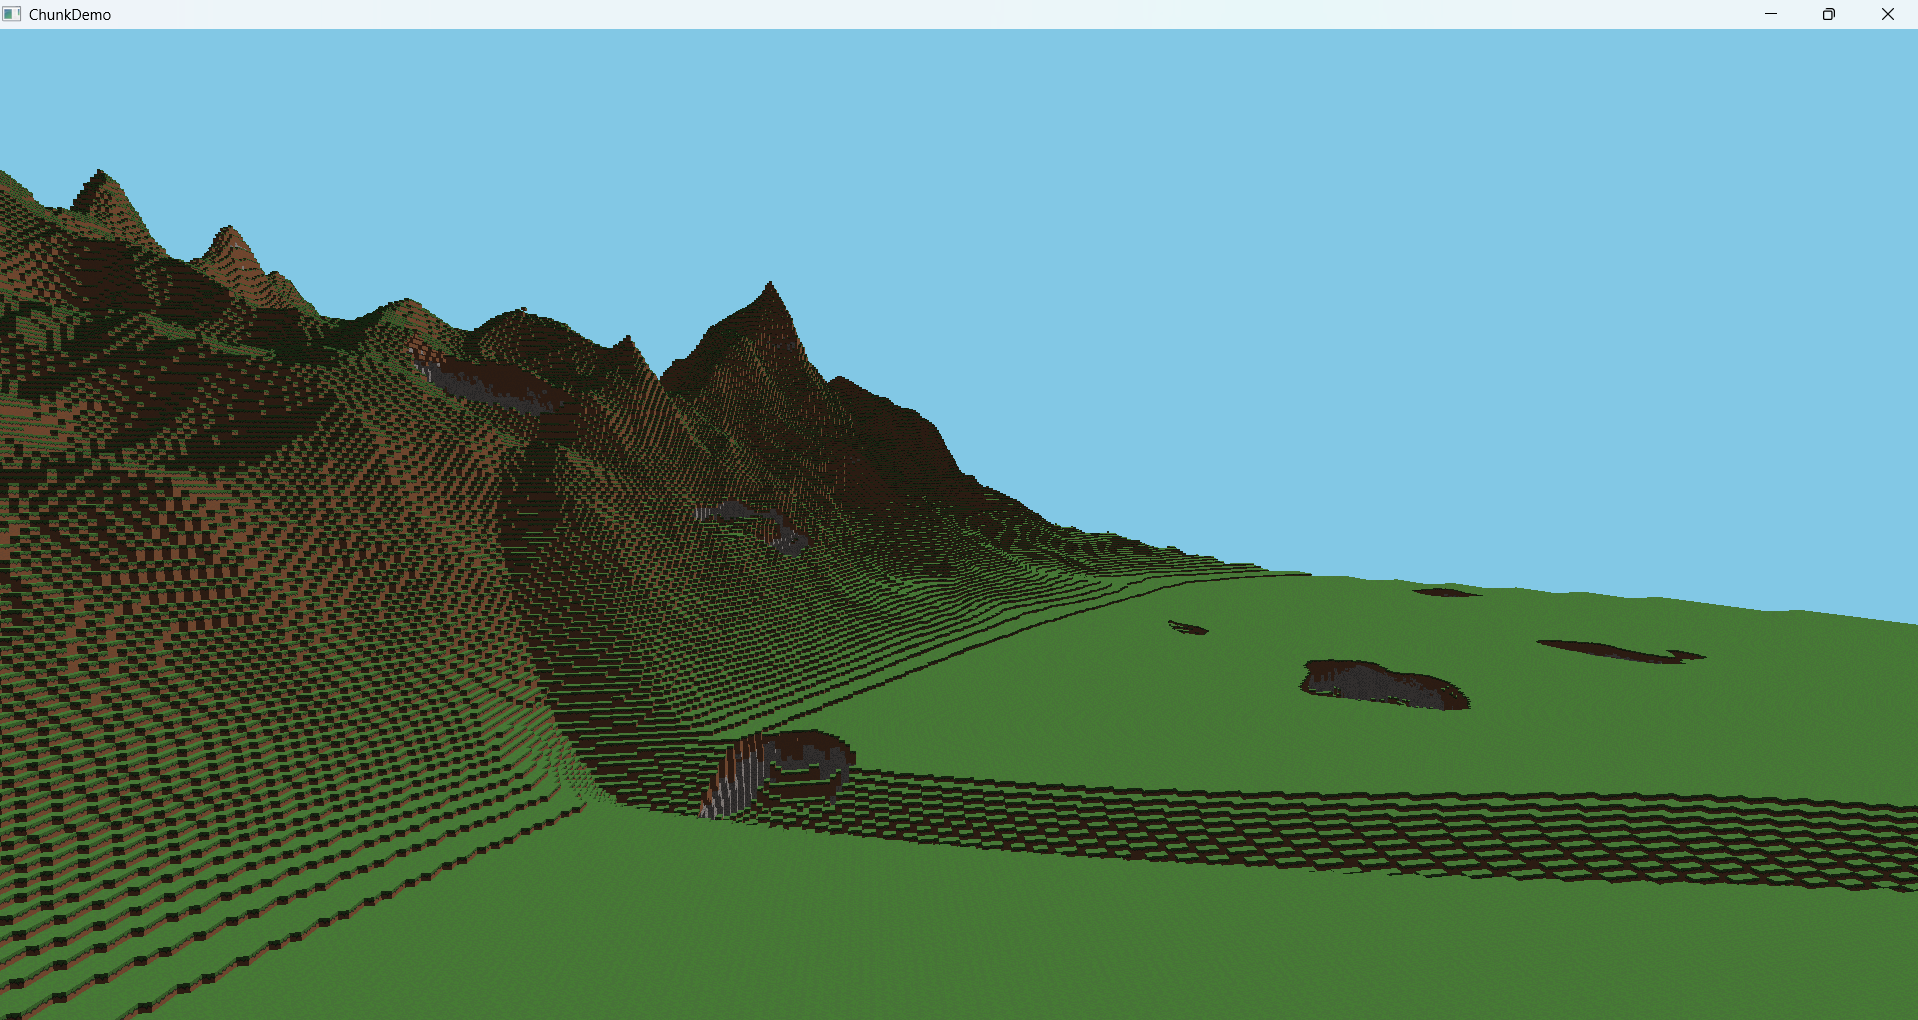
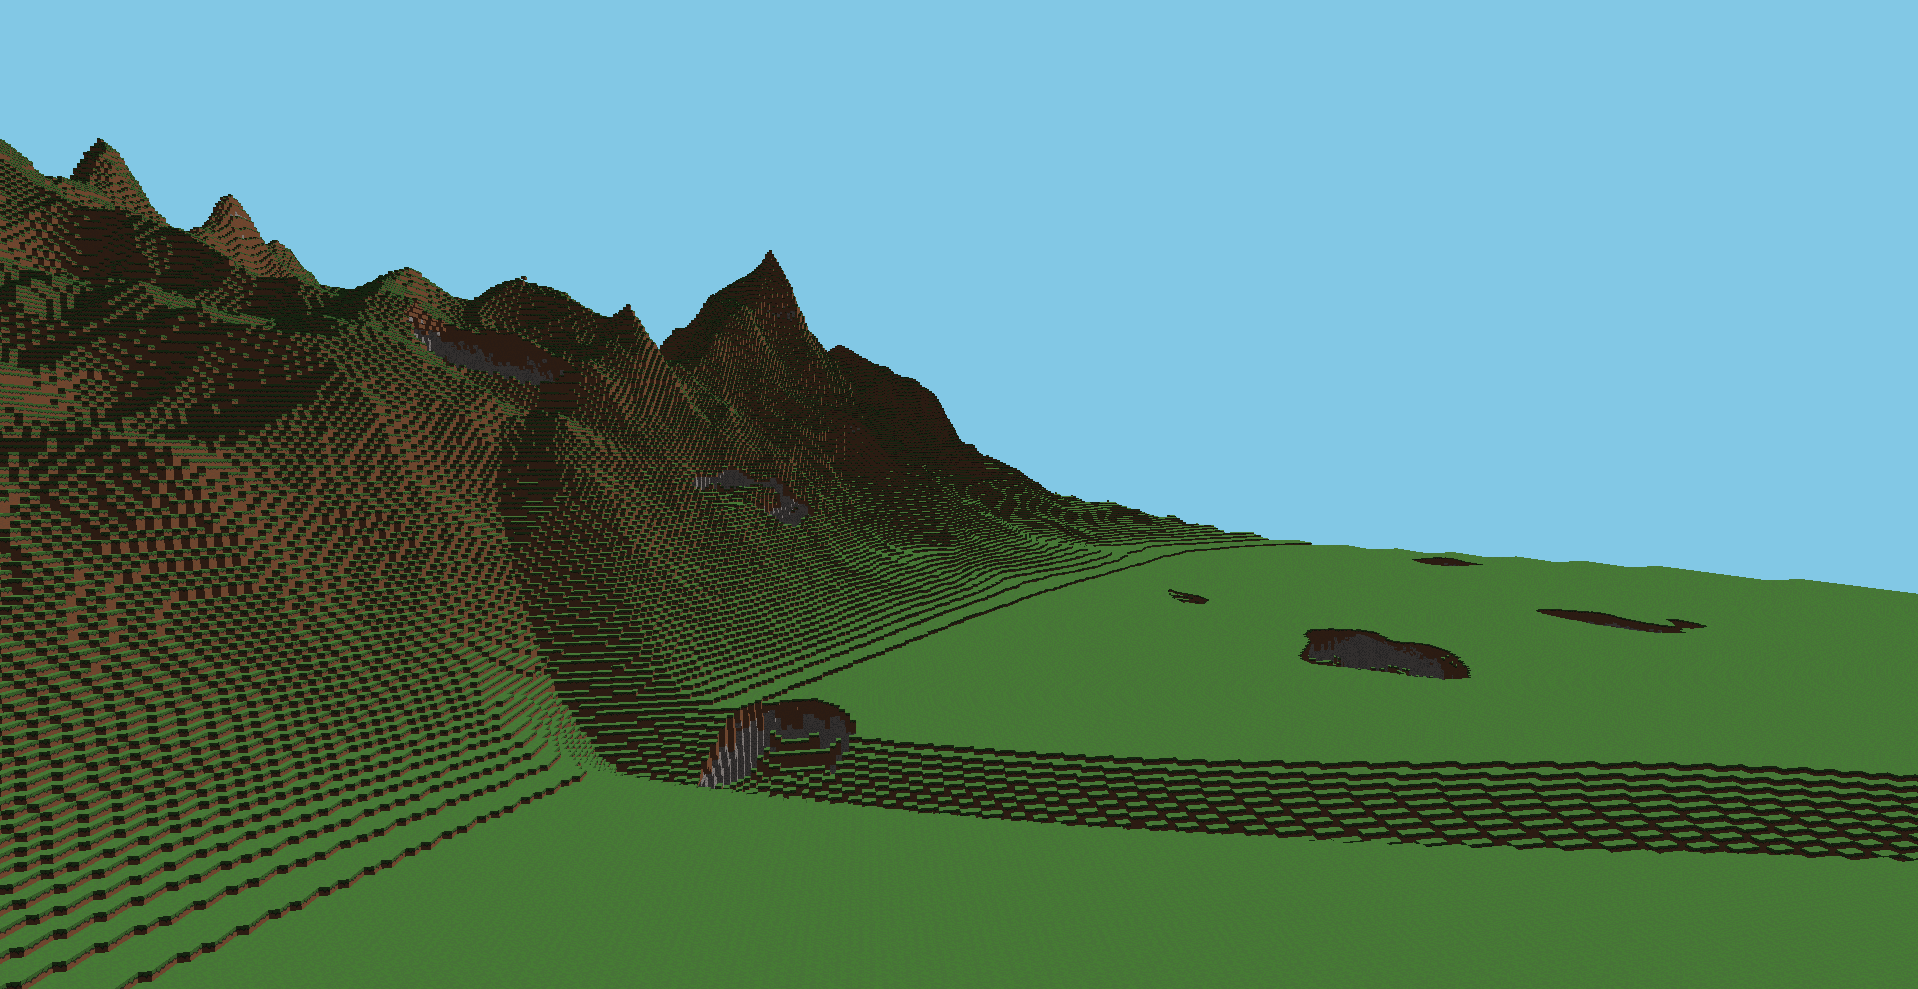
Tidy project READMEs and crop the Minecraft screenshots
Removes the DroneSim stub note, the CloudSim outdated-README note and the
Back To Start Page links; fixes typos in SolarSystem; trims the what-is-C++
bullets in TSBK07. The Windows title bar is cropped out of the Minecraft
Terrain screenshots.

diff --git a/public/projects/SolarSystem/README.md b/public/projects/SolarSystem/README.md
@@ -1,13 +1,13 @@
 # BlenderSolarsystemSim
 A solar system simulation using Euler approximation, animating each planet using keyframes and a custom UI to allow the user to create their own solar systems.
 
-This project was done in 2024 for the course TNM085 - Modelling Project at LIU, made by Jonatan Ebenholm, Berkay Orhan, Ludwig Boge, and Nikita Sidarovich. Its purpose was to first simulate a number of planets revolving around a sun, and then visualise it. The code has since been changed to match new standards in blender python, mainly the names of different nodes in the shader changed. 
+This project was done in 2024 for the course TNM085 - Modelling Project at LIU, made by Jonatan Ebenholm, Berkay Orhan, Ludwig Boge, and Nikita Sidarovich. Its purpose was to first simulate a number of planets revolving around a sun, and then visualise it. The code has since been changed to match new standards in Blender Python, mainly the names of different nodes in the shader changed. 
 
-The project can be viewed ether by wathing the pretty images below, or by installing the zip-file and adding it as an addong to a blender project. This can be done by making new general project, pressing the edit button up in the top left, pressing preferences button clicking on add-ons in the pop up menu. Lastly, click the arrow in the top right to bring down a menu and press "install from disk". Choose the zip file, and you're done! Now, if you press n on your keyboard while in the workspace, the sidebar will show up. Navigate to the Solarsystem Simulator and start simulating!
+The project can be viewed either by watching the pretty images below, or by installing the zip-file and adding it as an add-on to a Blender project. This can be done by making a new general project, pressing the edit button up in the top left, pressing the preferences button and clicking on add-ons in the pop-up menu. Lastly, click the arrow in the top right to bring down a menu and press "install from disk". Choose the zip file, and you're done! Now, if you press n on your keyboard while in the workspace, the sidebar will show up. Navigate to the Solarsystem Simulator and start simulating!
 
-Note: If you are using this in a project you've been working on, make sure to keep a backup, especially if you are running the advanced simulation version. There was an issue that we believe we have solved, that removed other objects in the scene when pressing the "create planes" button. Again, it is most likely solved, but might still fail in some undiscovered edge case. As for the advenced simulation option, it simply is expensive, exponentially so. This is to say, you might not have the time to wait for it to finnish, so if that's the case, make sure to save your project in case you have to force it shut, or better yet keep a backup of the project!
+Note: If you are using this in a project you've been working on, make sure to keep a backup, especially if you are running the advanced simulation version. There was an issue that we believe we have solved, that removed other objects in the scene when pressing the "create planes" button. Again, it is most likely solved, but might still fail in some undiscovered edge case. As for the advanced simulation option, it simply is expensive, exponentially so. This is to say, you might not have the time to wait for it to finish, so if that's the case, make sure to save your project in case you have to force it shut, or better yet keep a backup of the project!
 
-Here are some of the resulting images, but keep in mind that the simulation also does keyframe animations, so these images are just some frames of animation with some different lighting and camera angels. To see the animations, you can check out the addon by yourself. have fun!
+Here are some of the resulting images, but keep in mind that the simulation also does keyframe animations, so these images are just some frames of animation with some different lighting and camera angles. To see the animations, you can check out the add-on yourself. Have fun!
 
 
 ![RedoVisning3](../../images/SolarSystem/image1.png)
@@ -18,6 +18,3 @@ Here are some of the resulting images, but keep in mind that the simulation also
 ![panel](../../images/SolarSystem/image6.png)
 
 ## [GitHub](https://github.com/Sahriz/BlenderSolarsystemSim)
-
-## [Back To Start Page](/)
-

diff --git a/public/projects/TSBK07/README.md b/public/projects/TSBK07/README.md
@@ -2,15 +2,13 @@
 # PathTracer on GPU
 
 ## Overview
-This project was done for the course **TSBK07 - Computer Graphics** at LIU. The project is a path tracer with multiple scenes which showcases its power. There are diffuse, reflective and transmissive materials, all seen in scene 0. The path tracer has also been optimised to be able to handle a large amount of polygons, as seen in scene 3, where the stanford bunny with tens of thousand of triangles is rendered in real time on computors with somewhat decent hardware. Due to course restrictions, a library written by **ingemar Ragnemalm** was used instead of glm. The project was done together with *Ludwig Boge*.
+This project was done for the course **TSBK07 - Computer Graphics** at LIU. The project is a path tracer with multiple scenes which showcases its power. There are diffuse, reflective and transmissive materials, all seen in scene 0. The path tracer has also been optimised to be able to handle a large amount of polygons, as seen in scene 3, where the stanford bunny with tens of thousands of triangles is rendered in real time on computers with somewhat decent hardware. Due to course restrictions, a library written by **ingemar Ragnemalm** was used instead of glm. The project was done together with *Ludwig Boge*.
 ****
 ## Features
 - **Real time Path Tracing**: Real time path tracing utilizing the GPU and with BVH-trees to render large scale models at high frame rate. 
 ****
 ## Technologies Used
-- **C++**: An object-oriented programming language. C++ is a superset of the C language.
-
-- **OpenGL**: A cross-language, multi-platform API for rendering 2D and 3D vector graphics.
+- **C++ and OpenGL**: the path tracing itself runs in a GLSL fragment shader.
 
 - **VectorUtils4**: glm-like header file library which was mandatory for the course, otherwise glm would have been used.
 ****
@@ -37,7 +35,3 @@ The report can be read [here](../../images/TSBK07/TSBK07___Pathtracer_with_BVH.p
 ****
 
 ## [GitHub](https://github.com/eLdOchLagor/TSBK07-Raytracer)
-
-
-## [Back To Start Page](/)
-

diff --git a/public/projects/Portal/README.md b/public/projects/Portal/README.md
@@ -19,6 +19,3 @@ This is a work in progress passion project where I try to recreate a portal effe
 - **Make shadows pass through portal**: Currently, the shadows are cut of by the portal sufrace and are not rendering on the other side of the portal. This is most likely something I will fix using a shader.
 - **Slice gameobjects to allow smooth transition of objects**: Currently, if another gameobject moves through the portal, it looks horrible as an onlooker, this can be fixed by slicing the object where it intersects the portal surface, and then duplicating its visuals to the other side of the other portal, allowing it to appear in two spots at once, but only working with one physics object. 
 - **Portal effect when switching links**: I want portals to be able to, in real time, switch its target portal to new one. This would probably look pretty lame if the portal just turned on a switch, and BAM, new portal surface. I want to make a shader that handles transitions between portals, to make it smoother and prettier.
-
-## [Back To Start Page](/)
-

diff --git a/public/projects/CloudSim/README.md b/public/projects/CloudSim/README.md
@@ -1,12 +1,8 @@
 # Cloud Sim
 
-> The README in the GitHub repo still describes the original fluid simulation plan. This page describes what the program actually does.
-
 A real-time volumetric cloud renderer written in C++ and OpenGL 4.6.
 
 It started as an Eulerian fluid simulation, which is where the repository name and the `FluidSim` class come from, and turned into a cloud renderer somewhere along the way. Two compute shaders bake a noise field into a 3D texture, and a fullscreen raymarch lights that volume and draws it. Every number in the pipeline is wired to a Dear ImGui slider, so most of the time I spend in it goes to dragging values around and watching what the clouds do.
-
-<video src="/images/CloudSim/cloudsim.webm" autoplay loop muted playsinline width="100%"></video>
 
 ## Building the density field
 

diff --git a/public/projects/MinecraftTerrain/README.md b/public/projects/MinecraftTerrain/README.md
@@ -4,8 +4,6 @@ A high-performance, GPU-driven voxel terrain generation engine written in C++ an
 
 Inspired by Minecraft, this project pushes the boundaries of standard voxel rendering by offloading almost the entire generation and rendering pipeline, including 3D noise generation, surface culling, geometry assembly, and draw calls, directly to the GPU using **Compute Shaders** and **Indirect Drawing**.
 
-![Mountain range generated by the engine](/images/MinecraftTerrain/Mountains.png)
-
 <video src="/images/MinecraftTerrain/Rendering.mp4" controls width="100%"></video>
 
 ---

diff --git a/public/projects/DroneSim/README.md b/public/projects/DroneSim/README.md
@@ -1,7 +1,5 @@
 # DroneSim
 
-> ⚠ This repository doesn't have a written README on GitHub yet. The page below is a stub. The figures are progress shots from local development. When a real README is pushed to the repo, it can replace this file.
-
 Autonomous drone navigating procedurally generated terrain in C++ / OpenGL. A control loop steers the drone through the simulated environment in real time, with the surrounding world meshed on the fly using marching cubes over a 3D scalar field.
 
 ## Progress

diff --git a/public/projects/PlanetGenerator/README.md b/public/projects/PlanetGenerator/README.md
@@ -30,5 +30,3 @@ A procedurall planet generator demo, which uses multiple types of noise function
 ![image](../../images/PlanetGenerator/PlanetProgress1.png)
 ![image](../../images/PlanetGenerator/PlanetProgress6.png)
 ![image](../../images/PlanetGenerator/PlanetProgress7.png)
-## [Back To Start Page](/)
-

diff --git a/public/projects/ElementalClash/README.md b/public/projects/ElementalClash/README.md
@@ -34,6 +34,3 @@ This project was done as part of my bachelors thesis in the course TNM094 at *Li
 
 Here is the [Thesis](../../images/ElementalClash/KandidatProjekt_Rapport.pdf) for anybody interested! It is written in swedish as that was mandatory for the course. 
 ****
-
-## [Back To Start Page](/)
-

diff --git a/public/projects/TerrainLib/README.md b/public/projects/TerrainLib/README.md
@@ -71,6 +71,3 @@ This project is a WIP library for personal use, but open for anyone to use or mo
 - **Make physics work for player controller**
 - **Make a state machine for player character**
 - **Allow interaction with terrain by for example detroying terrain**
-
-## [Back To Start Page](/)
-

diff --git a/public/projects/TNCG15/README.md b/public/projects/TNCG15/README.md
@@ -18,7 +18,3 @@ This project was made by me and Ludwig Boge, and was made for the course *TNCG15
 ![image](../../images/TNCG15/FyrkanHD.png)
 
 ## [Link to project](https://github.com/eLdOchLagor/TNCG15-Monte-Carlo-Pathtracer)
-
-
-## [Back To Start Page](/)
-

diff --git a/public/projects/TNM084/README.md b/public/projects/TNM084/README.md
@@ -27,6 +27,3 @@ This was a solo project which was part of the course *TNM084 - Procedural method
 ![image](../../images/TNM084/TreeCreator.png)
 
 ## [Github](https://github.com/Sahriz/InfiniteWorld)
-
-## [Back To Start Page](/)
-
